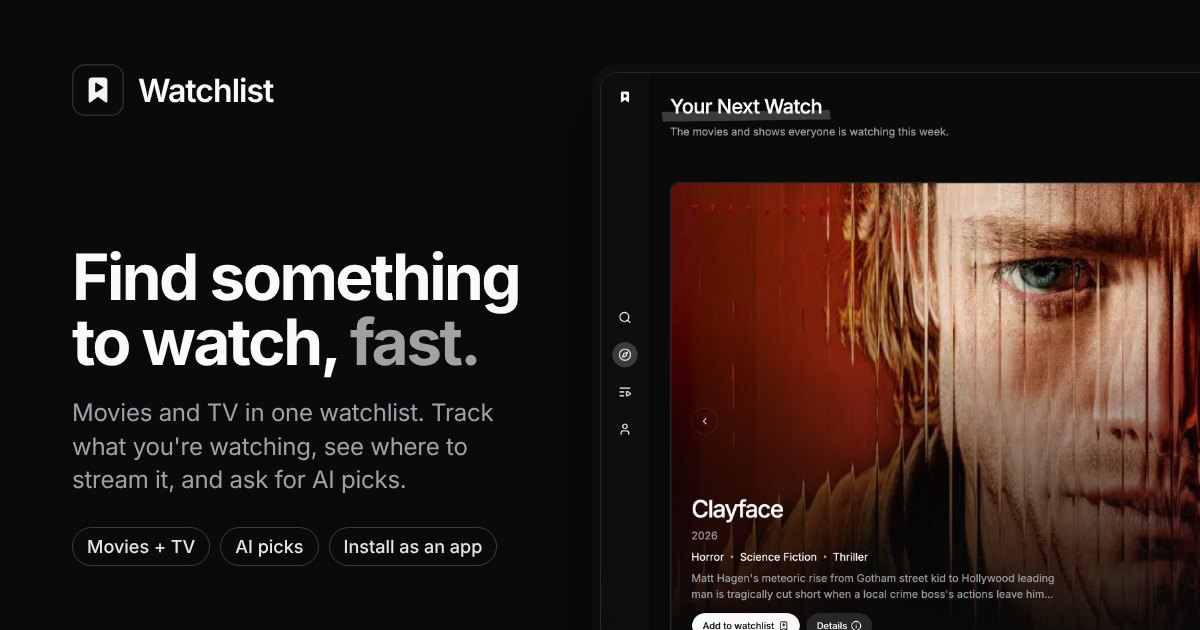
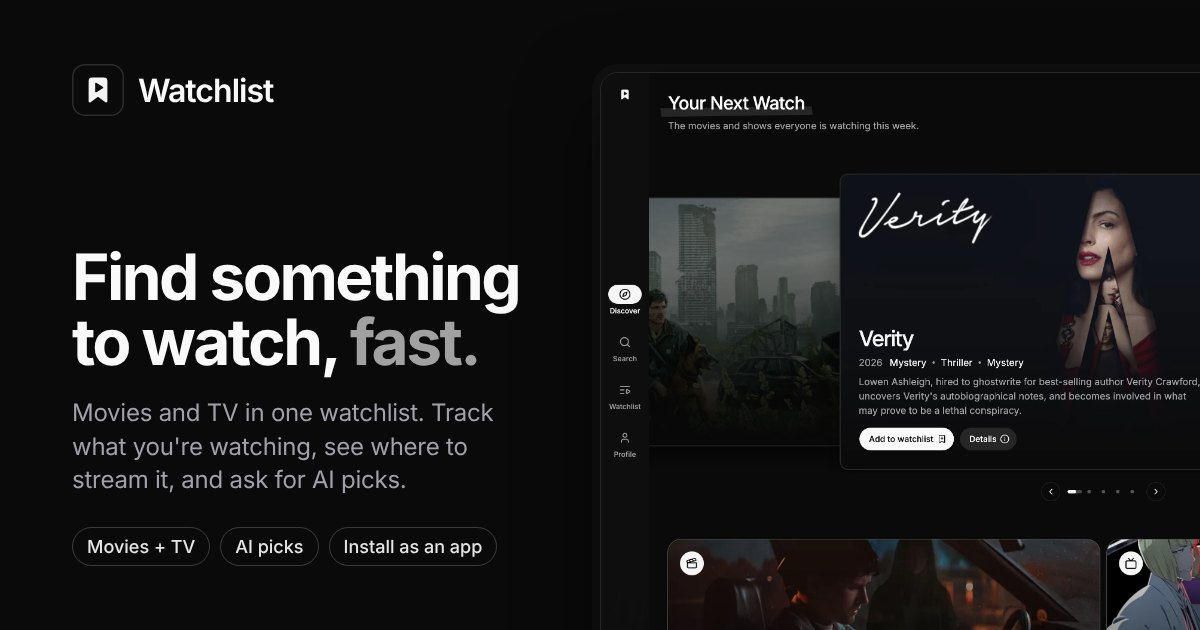
Use the new monochrome Discover screenshot in link previews and sign-in
- og-image.jpg shows the current Discover page (new logo, labelled rail)
- The sign-in showcase fallback is the new screenshot as a 60KB WebP,
  replacing the old PNG with the indigo logo and theme toggle

Changed region(s): [[0.4933, 0.2714, 1.0, 1.0], [0.555, 0.1508, 0.7708, 0.2111], [0.4933, 0.6032, 0.5242, 0.6333]]

diff --git a/src/features/media/components/AuthMediaShowcase.tsx b/src/features/media/components/AuthMediaShowcase.tsx
@@ -58,7 +58,7 @@ export function AuthMediaShowcase() {
 			}}
 		>
 			<img
-				src="/discover-desktop.png"
+				src="/discover-desktop.webp"
 				alt="Showcase of the app"
 				className="absolute inset-0 h-full w-full object-cover brightness-[0.2] grayscale"
 				loading="lazy"
